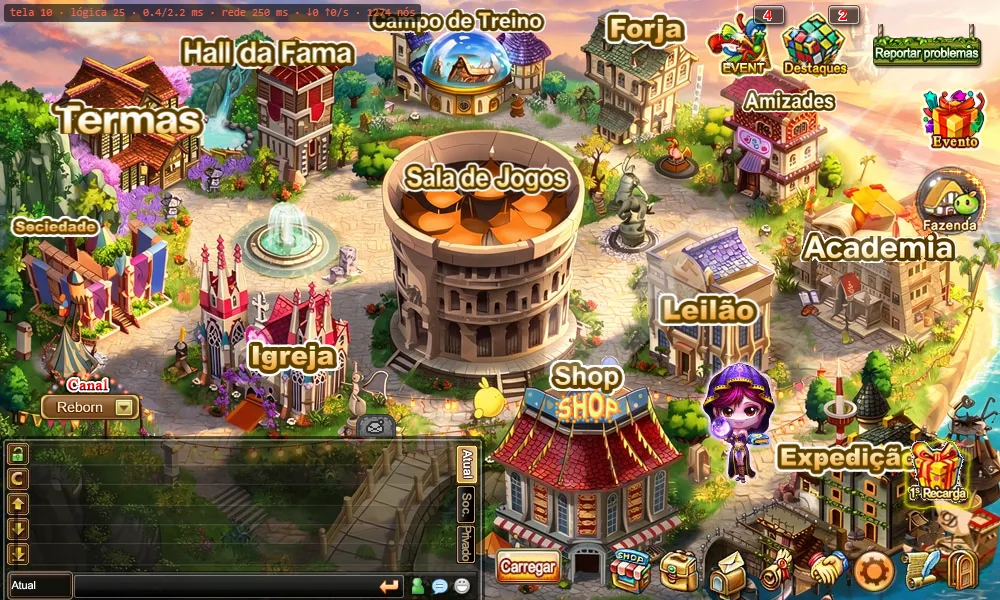
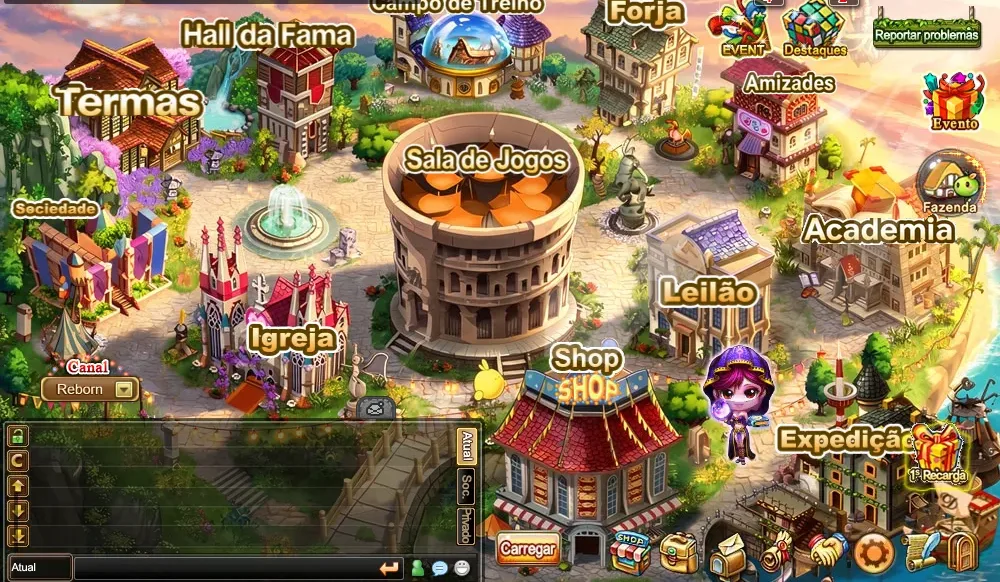
feat(web): galeria da home ganha o hall real do jogo (sem o contador de debug)

diff --git a/apps/web/src/i18n.ts b/apps/web/src/i18n.ts
@@ -51,6 +51,7 @@ const ptBR = {
   "home.gallery.body": "Toda imagem abaixo foi capturada rodando o servidor Reborn de verdade — nada é arte conceitual.",
   "home.gallery.prev": "Imagem anterior",
   "home.gallery.next": "Próxima imagem",
+  "home.gallery.hall": "O hall da cidade — Sala de Jogos, Loja, Forja, Igreja, Sociedade e Expedição a um clique.",
   "home.gallery.charSelect": "Tela de criação de personagem — escolha classe e visual antes de entrar.",
 
   "home.howTo.title": "Como jogar",
@@ -294,6 +295,7 @@ const en: Partial<Record<Key, string>> = {
   "home.gallery.body": "Every image below was captured while actually running the Reborn server — nothing is concept art.",
   "home.gallery.prev": "Previous image",
   "home.gallery.next": "Next image",
+  "home.gallery.hall": "The town hall — Game Room, Shop, Forge, Church, Guild and Expedition one click away.",
   "home.gallery.charSelect": "Character-creation screen — pick a class and look before entering.",
 
   "home.howTo.title": "How to play",

diff --git a/apps/web/src/pages/Home.tsx b/apps/web/src/pages/Home.tsx
@@ -173,6 +173,7 @@ export function HomePage() {
   useSeo({ title: "DDTank Reborn", description: t("home.lead"), image: "/play/bg-1280.webp" });
 
   const gallery: GalleryImage[] = [
+    { src: "/art/gallery/hall.webp", caption: t("home.gallery.hall") },
     { src: "/art/screenshot-char-select.webp", caption: t("home.gallery.charSelect") },
   ];
 
